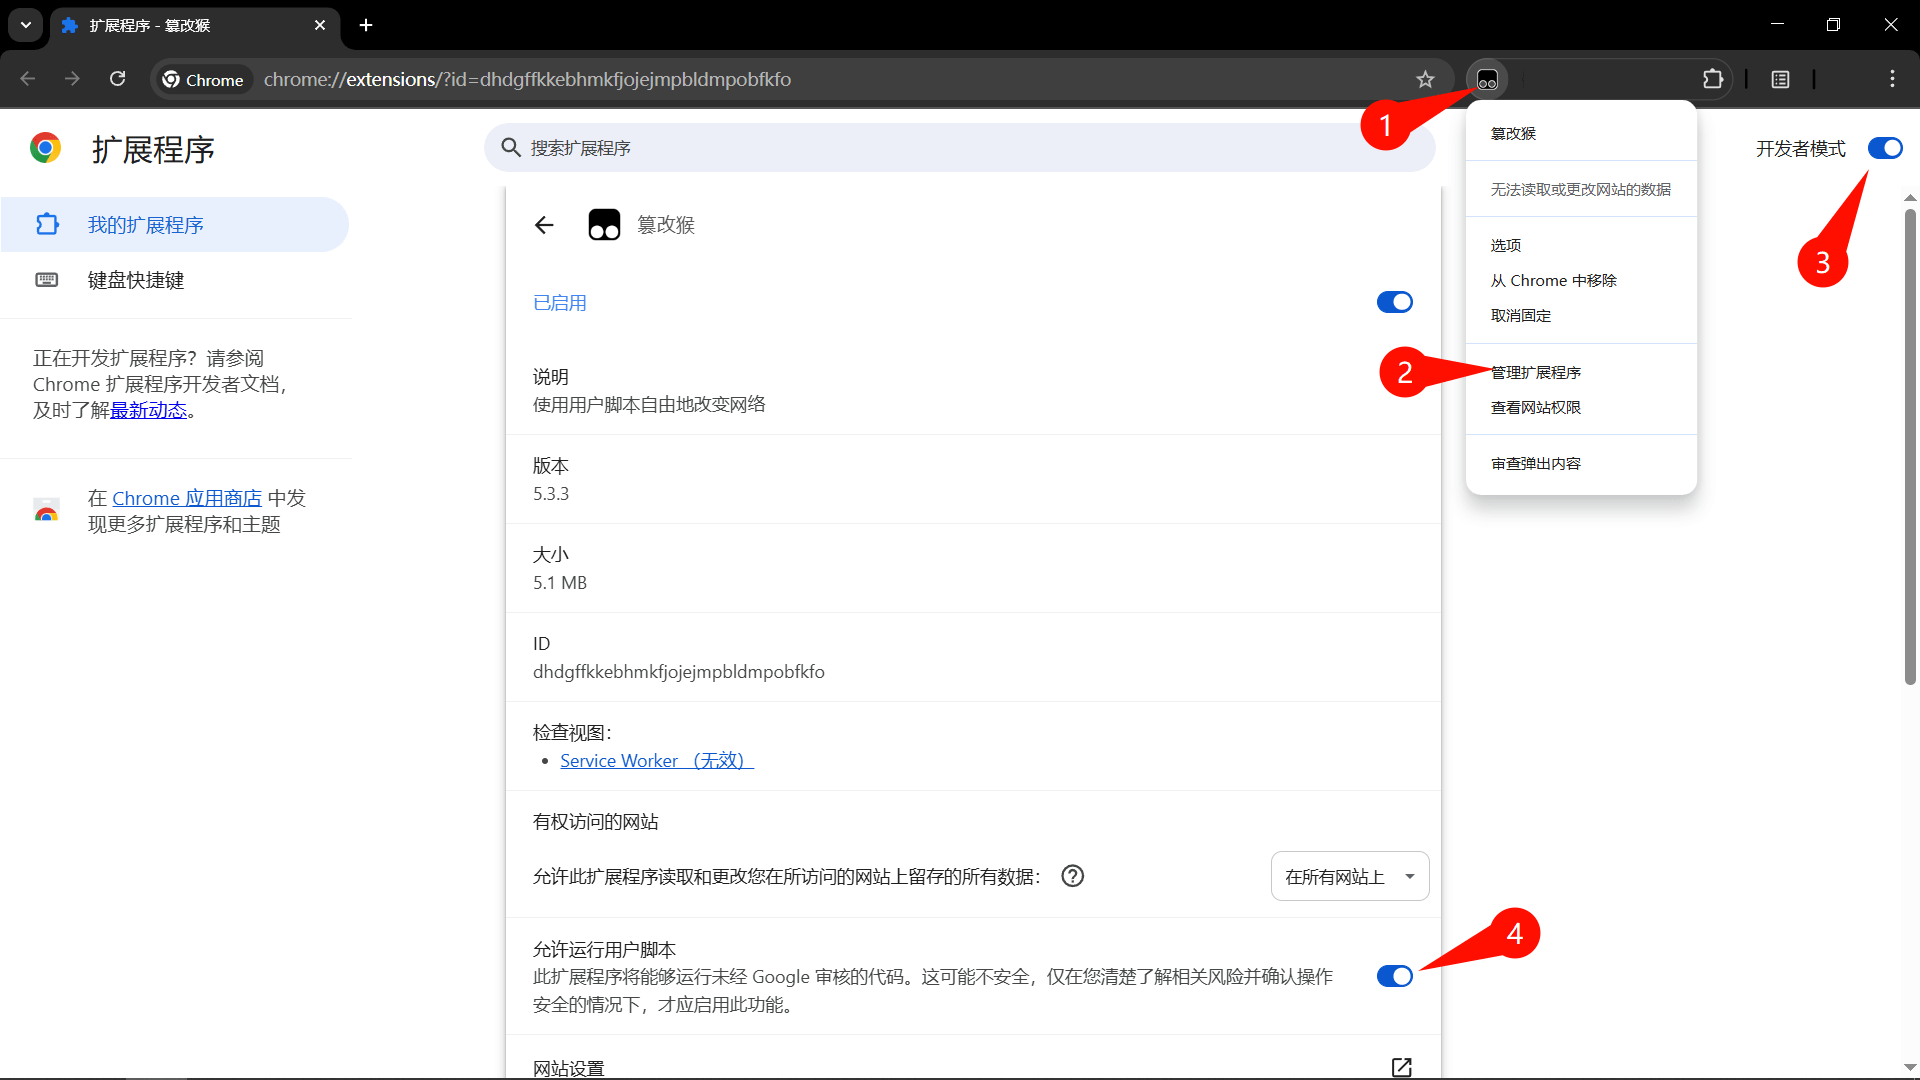
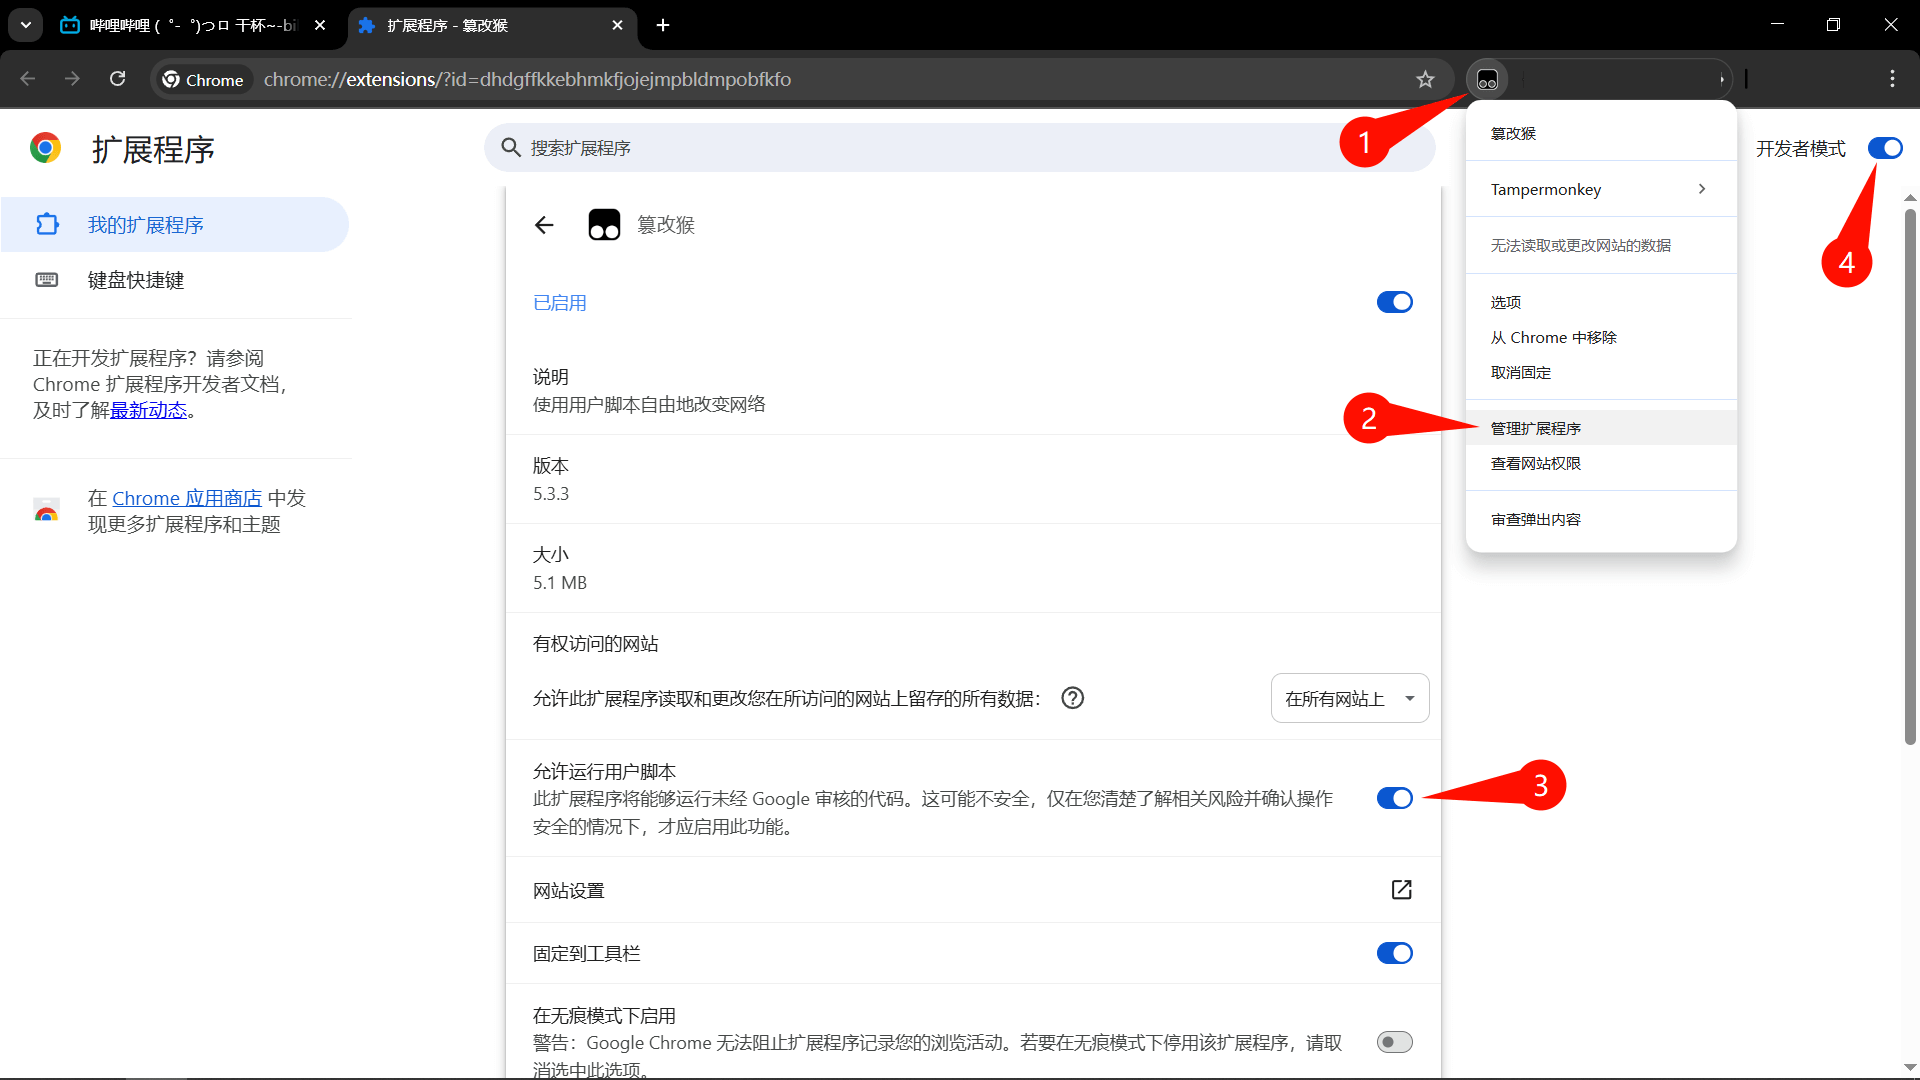
chore: update doc

diff --git a/src/modules/rules/video/groups/basic.ts b/src/modules/rules/video/groups/basic.ts
@@ -6,6 +6,11 @@ import URLHandlerInstance from '@/utils/urlHandler'
 export const videoBasicItems: Item[] = [
     {
         type: 'switch',
+        id: 'video-page-hide-fixed-header',
+        name: '顶栏 滚动页面后 不再吸附顶部',
+    },
+    {
+        type: 'switch',
         id: 'video-page-bv2av',
         name: 'BV号转AV号',
         noStyle: true,
@@ -58,11 +63,6 @@ export const videoBasicItems: Item[] = [
             URLHandlerInstance.cleanFnArr.push(bv2av)
             URLHandlerInstance.clean()
         },
-    },
-    {
-        type: 'switch',
-        id: 'video-page-hide-fixed-header',
-        name: '顶栏 滚动页面后 不再吸附顶部',
     },
     {
         type: 'switch',

diff --git a/src/modules/rules/video/groups/playerLayout.ts b/src/modules/rules/video/groups/playerLayout.ts
@@ -89,7 +89,7 @@ export const videoPlayerLayoutItems: Item[] = [
     {
         type: 'switch',
         id: 'default-widescreen',
-        name: '默认宽屏播放 刷新生效',
+        name: '默认宽屏播放',
         enableFn: async () => {
             unsafeWindow.isWide = true
             wideScreenManager.lock() // 锁定宽屏模式

diff --git a/src/modules/rules/bangumi/groups/playerLayout.ts b/src/modules/rules/bangumi/groups/playerLayout.ts
@@ -86,7 +86,7 @@ export const bangumiPlayerLayoutItems: Item[] = [
     {
         type: 'switch',
         id: 'default-widescreen',
-        name: '默认宽屏播放 刷新生效',
+        name: '默认宽屏播放',
         noStyle: true,
         enableFn: () => {
             let origNextData = unsafeWindow.__NEXT_DATA__

diff --git a/src/modules/rules/video/groups/playerLayout.scss b/src/modules/rules/video/groups/playerLayout.scss
@@ -1,4 +1,4 @@
-// 默认宽屏播放 刷新生效
+// 默认宽屏播放
 html[default-widescreen] {
     // 修复mini播放模式主播放器宽度支撑问题
     &[player-is-wide] #playerWrap:has(.bpx-player-container[data-screen='mini']) {

diff --git a/README.md b/README.md
@@ -28,18 +28,17 @@
 
 ## 安装
 
-### 前提：启用开发者模式
-
-> 由于 Google 推行 Manifest V3，现在 Tampermonkey 需在开发者模式使用
+### 前提：允许运行用户脚本
 
 - Edge 打开网址 `edge://extensions/`，在左侧启用 "开发人员模式"，重启浏览器
 - Firefox 无需操作
 - Chrome 操作如图
 
-    1. 右键单击脚本管理器（暴力猴/篡改猴），点击 "管理扩展程序"
-    2. 若出现 "允许运行用户脚本" 选项，启用即可
-    3. 若未出现 "允许运行用户脚本" 选项，则启用 "开发者模式" 作为代替
-    4. 重启浏览器
+    1. 右键单击脚本管理器（暴力猴/篡改猴/脚本猫）
+    2. 点击 "管理扩展程序"
+    3. 若 Chrome >= 138，会出现 "允许运行用户脚本" 选项，启用即可
+    4. 若未出现 "允许运行用户脚本" 选项，则启用 "开发者模式" 作为替代
+    5. 重启浏览器
 
         ![](images/how-to-install-on-chrome.png)
 
@@ -79,7 +78,7 @@
 - 净化新版 bilibili 网页，默认用户已登录，大会员体验最佳
 - 混搭各种功能，调节浏览器缩放比例，可得到满意的页面效果
 - 不做老版本页面适配，不做未登录状态适配
-- **已知问题：**
+- 已知问题：
     - 给 UP 主充电时，若出现 **充电窗口载入失败 (报错NaN)**，请关闭通用项「URL参数净化」，刷新页面再充电
     - 特殊活动直播，调节脚本设置后需刷新页面才生效，弹幕净化不生效
 
@@ -138,13 +137,13 @@
 
 ### 脚本管理器
 
-- **[Tampermonkey](https://www.tampermonkey.net/)（篡改猴）：已测试，推荐**
-
-- **[Violentmonkey](https://violentmonkey.github.io/)（暴力猴）：已测试，推荐**
-
-- **[ScriptCat](https://docs.scriptcat.org/)（脚本猫）：支持，部分测试**
-
-- [Greasemonkey](https://www.greasespot.net/) 未测试，不推荐
+| 插件管理器                                                 | 是否支持 | MV3 标准 | 备注                             |
+| ---------------------------------------------------------- | -------- | -------- | -------------------------------- |
+| [Tampermonkey (篡改猴)](https://www.tampermonkey.net/)     | ✔       | ✔       | 完全测试，推荐                   |
+| [Violentmonkey (暴力猴)](https://violentmonkey.github.io/) | ✔       | ❌      | 完全测试，高版本 Chrome 无法运行 |
+| [ScriptCat (脚本猫)](https://docs.scriptcat.org/)          | ✔       | ✔       | 部分测试                         |
+| Greasemonkey                                               | ❌      | /        | 未测试                           |
+| Stay                                                       | ❌      | /        | 无法运行                         |
 
 ## 净化效果对比
 
@@ -177,29 +176,9 @@
 </details>
 
 <details>
-<summary><b>查看 直播页 对比图</b></summary>
+<summary><b>查看 热门视频/排行榜页 对比图（webp动图）</b></summary>
 
-### before
-
-![](images/screenshot-live-before.png)
-
-### after
-
-![](images/screenshot-live-after.png)
-
-</details>
-
-<details>
-
-<summary><b>查看 热门视频/排行榜页 对比图</b></summary>
-
-### before
-
-![](images/screenshot-popular-before.png)
-
-### after
-
-![](images/screenshot-popular-after.png)
+![](images/screenshot-popular.webp)
 
 </details>
 

diff --git a/NOTE.md b/NOTE.md
@@ -28,7 +28,7 @@
 ### 3. 软传销视频
 
 ```
-/2024.+风口.+(小时|一天)/
+/20\d\d.+风口.+(小时|一天)/
 /(小时|内耗).+为自己打工/
 ```
 
@@ -56,10 +56,11 @@
 
 - [新浪明星](https://weibo.com/cewebrity)
 - [关注人数最多的新浪微博帐号](https://zh.wikipedia.org/wiki/%E5%85%B3%E6%B3%A8%E4%BA%BA%E6%95%B0%E6%9C%80%E5%A4%9A%E7%9A%84%E6%96%B0%E6%B5%AA%E5%BE%AE%E5%8D%9A%E5%B8%90%E5%8F%B7)
+- [娱乐频道](https://www.bilibili.com/c/ent/)
 
 ### 7. 梗
 
-- 可参考：https://space.bilibili.com/94510621/video
+- 可参考：https://space.bilibili.com/94510621/upload/video
 
 ```
 科目三
@@ -116,6 +117,7 @@
 昵称包含下列关键词的 UP 主绝大多数是营销号
 
 ```
+今日知乎
 今日话题
 话题酱
 大型纪录片
